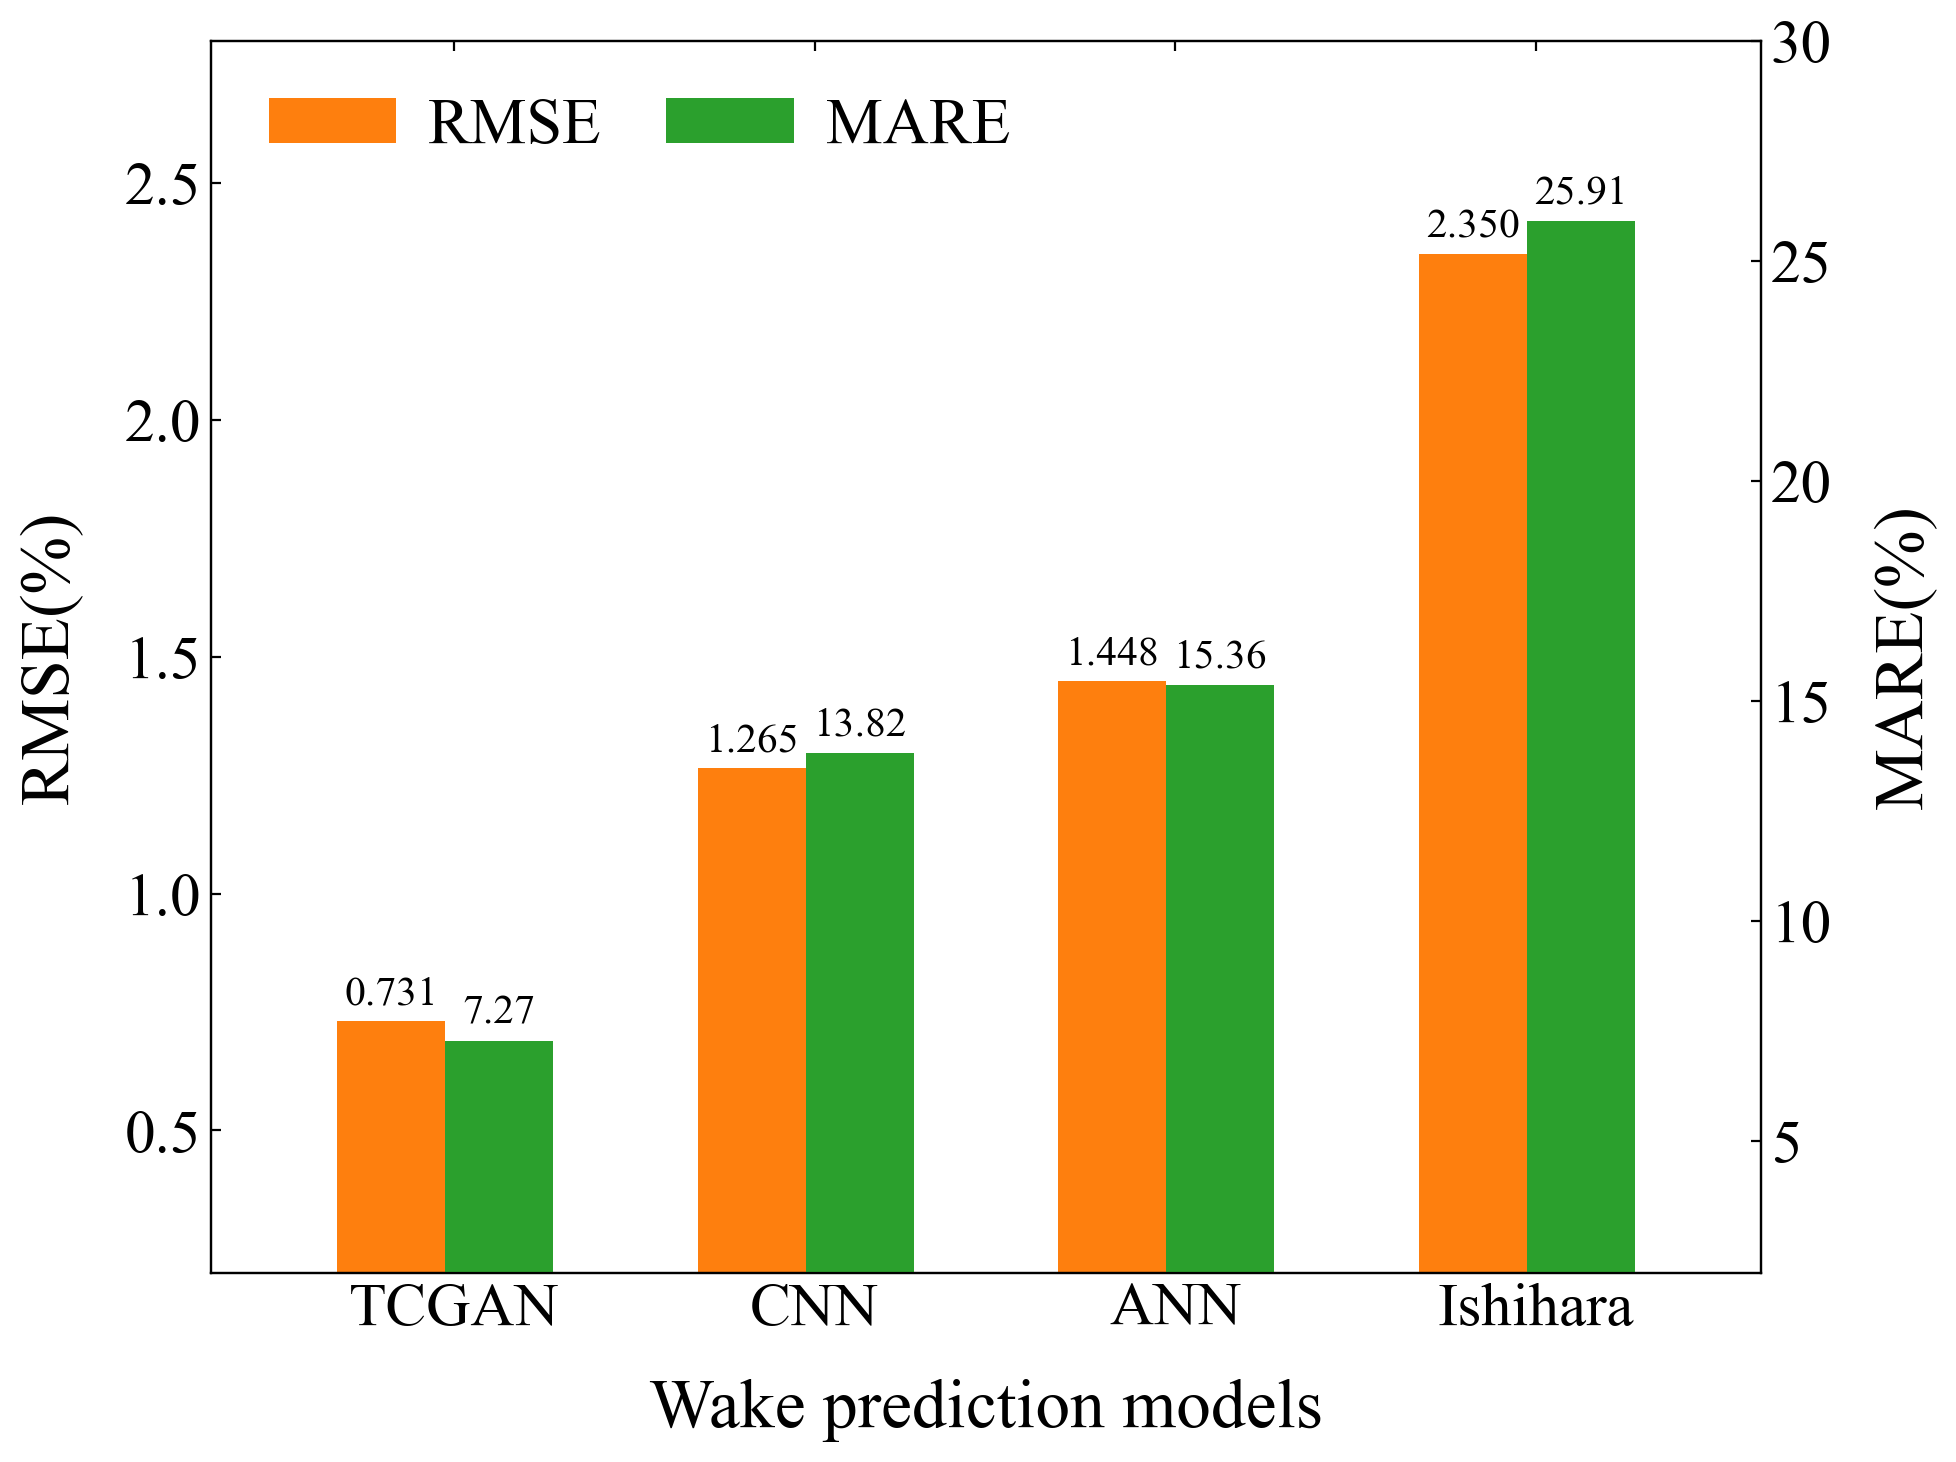
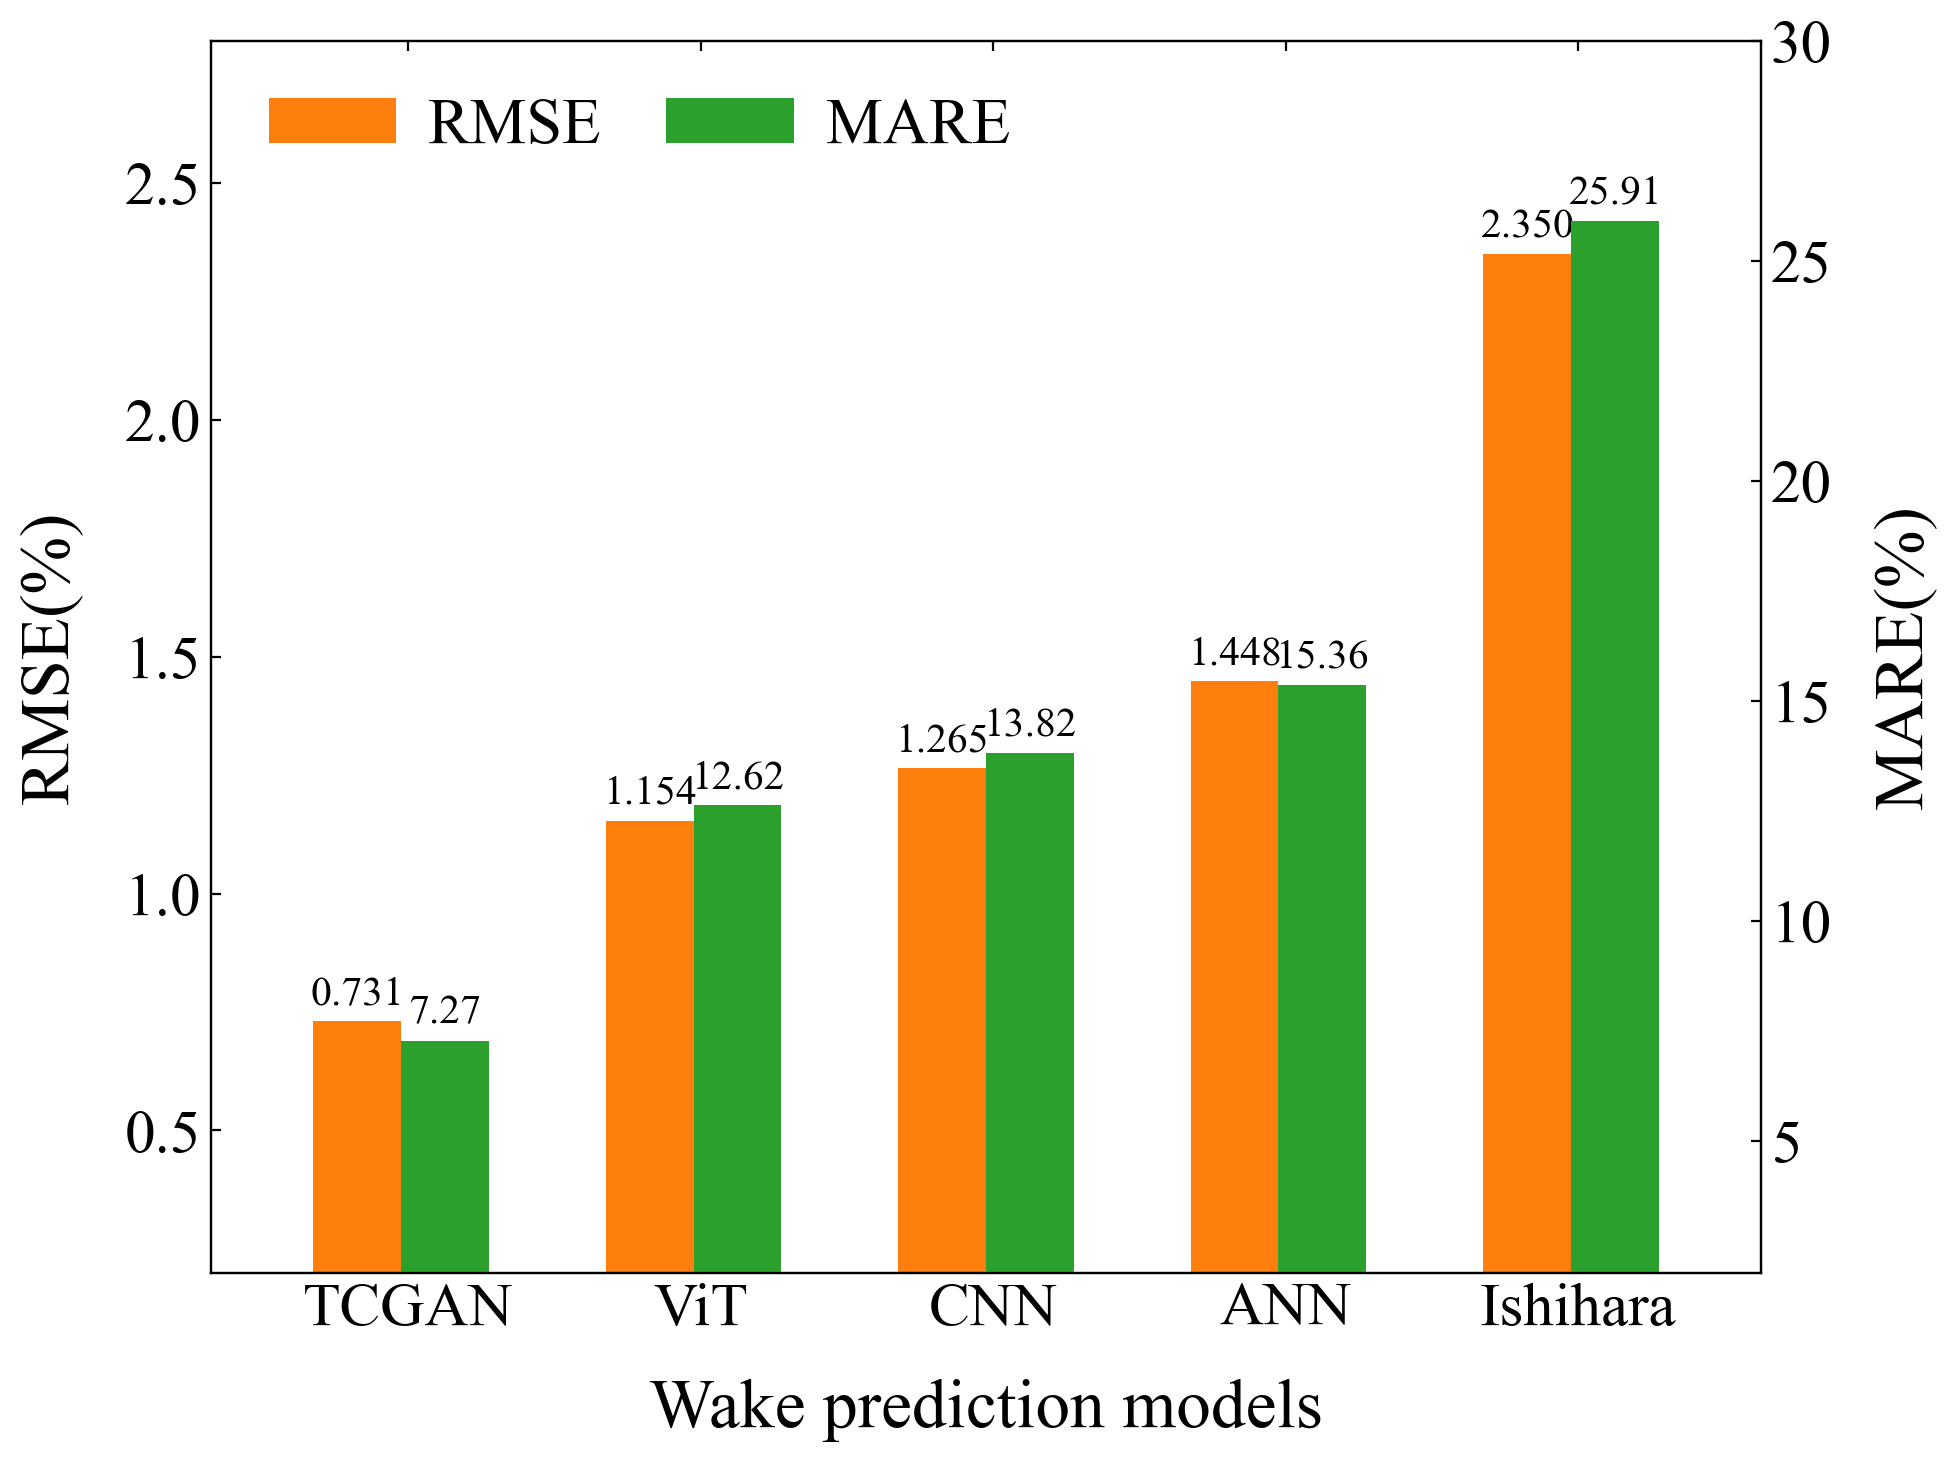
gan paper pics checked

Changed region(s): [[0.1559, 0.1231, 0.8732, 0.9234]]

diff --git a/floris/utils/others/gan_paper_plot/training_curve.py b/floris/utils/others/gan_paper_plot/training_curve.py
@@ -284,8 +284,8 @@ def ablation_study_plot(plot='turb'):
     # plt.show()
 
 
-def model_comparison_plot(plot='vel'):
-    models = ("TCGAN", "CNN", "ANN", "Ishihara")
+def model_comparison_plot(plot='turb'):
+    models = ("TCGAN", "ViT", "CNN", "ANN", "Ishihara")
     # errors = {
     #     'rsme':{'Velocity': (0.4982, 0.5982, 0.6982, 0.7982),
     #             'Turbulence intensity': (0.0081, 0.009, 0.010, 0.012)},
@@ -295,10 +295,10 @@ def model_comparison_plot(plot='vel'):
     #             'Turbulence intensity': (0.0842, 0.0942, 0.1042, 0.1142)},
     # }
     errors = {
-        'vel':{'rsme': [0.5457, 0.9982, 1.2154, 1.9558],
-               'mare': [0.04995, 0.0936, 0.1051, 0.1727]},
-        'turb':{'rsme': [0.7311, 1.2648, 1.448, 2.3497],
-                'mare': [0.0727, 0.1382, 0.1536, 0.2591]},
+        'vel':{'rsme': [0.5457, 0.9732, 0.9982, 1.2154, 1.9558],
+               'mare': [0.04995, 0.0901, 0.0936, 0.1051, 0.1727]},
+        'turb':{'rsme': [0.7311, 1.1538, 1.2648, 1.448, 2.3497],
+                'mare': [0.0727, 0.1262, 0.1382, 0.1536, 0.2591]},
     }
     labels = {'rsme': 'RSME', 'r-rsme': 'R-RSME', 'mare': 'MARE'}
     label_font = {'family': 'Times New Roman', 'weight': 'normal',
@@ -315,7 +315,7 @@ def model_comparison_plot(plot='vel'):
     fig, ax1 = plt.subplots(figsize=(10, 8), dpi=100,)
     rect1 = ax1.bar(x - width, error['rsme'], width, label='RMSE', color='#fe7f0e', alpha=1.)
     ax1.bar_label(rect1, padding=3, fmt='%.3f', fontproperties=bar_font)
-    ax1.set_xlim(-0.8, 3.5)
+    ax1.set_xlim(-0.8, len(models) * 0.9)
     ax1.set_xticks(x - 0.125, models)
     ax1.set_xlabel('Wake prediction models', fontdict=label_font, labelpad=15.)
 
@@ -358,7 +358,7 @@ def model_comparison_plot(plot='vel'):
                labelspacing=0.4, bbox_transform=fig.transFigure,
                ncol=2, handletextpad=0.5)
     plt.savefig(f'./model_comparsion_{plot}.png', format='png', dpi=200, bbox_inches='tight')
-    plt.close()
+    # plt.close()
     plt.show()
 
 
@@ -480,6 +480,10 @@ def model_params_variance():
         print(param_name[i], param_range[i], np.abs(param_range[i][1] - param_range[i][0]) / 6)
 
 
+def png_to_svg():
+    pass
+
+
 if __name__ == '__main__':
     # training_loss_plot()
     # turbine_array_power_plot()
@@ -489,4 +493,5 @@ if __name__ == '__main__':
     # turb_profile_generator()
     # model_params_variance()
     # model_comparison_plot()
-    ablation_study_plot()
+    # ablation_study_plot()
+    png_to_svg()
